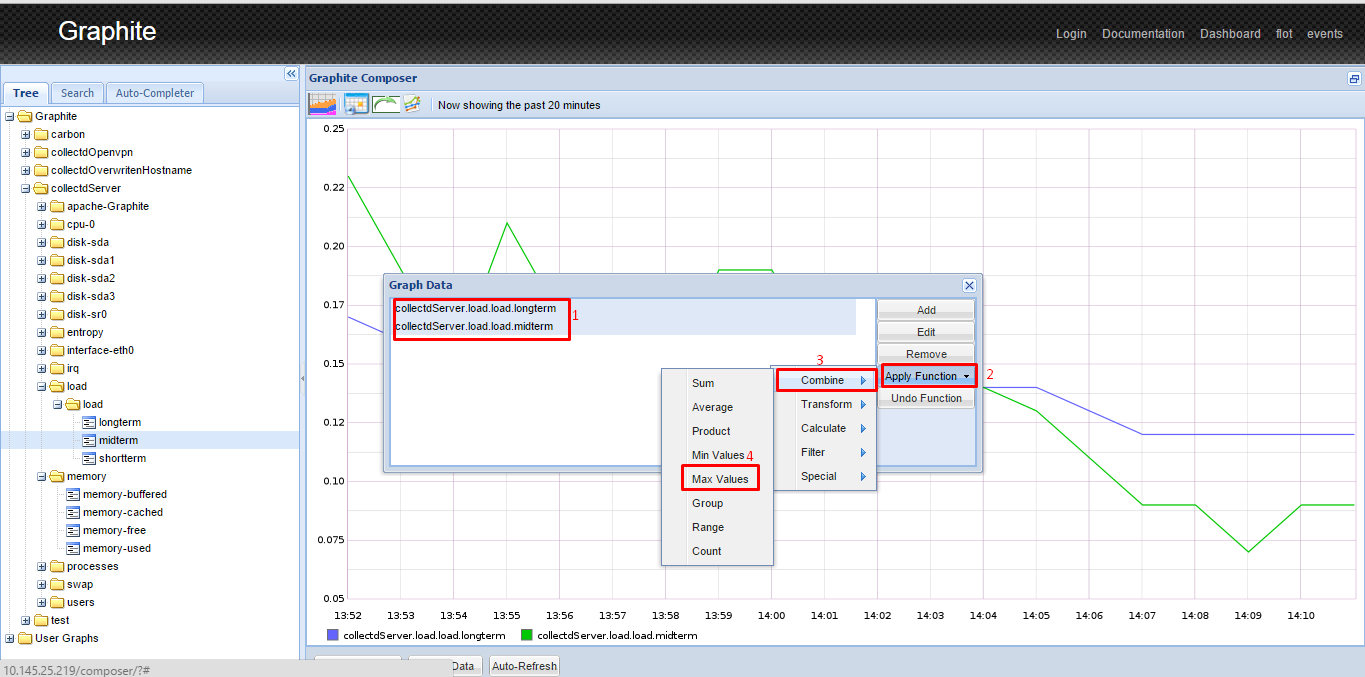
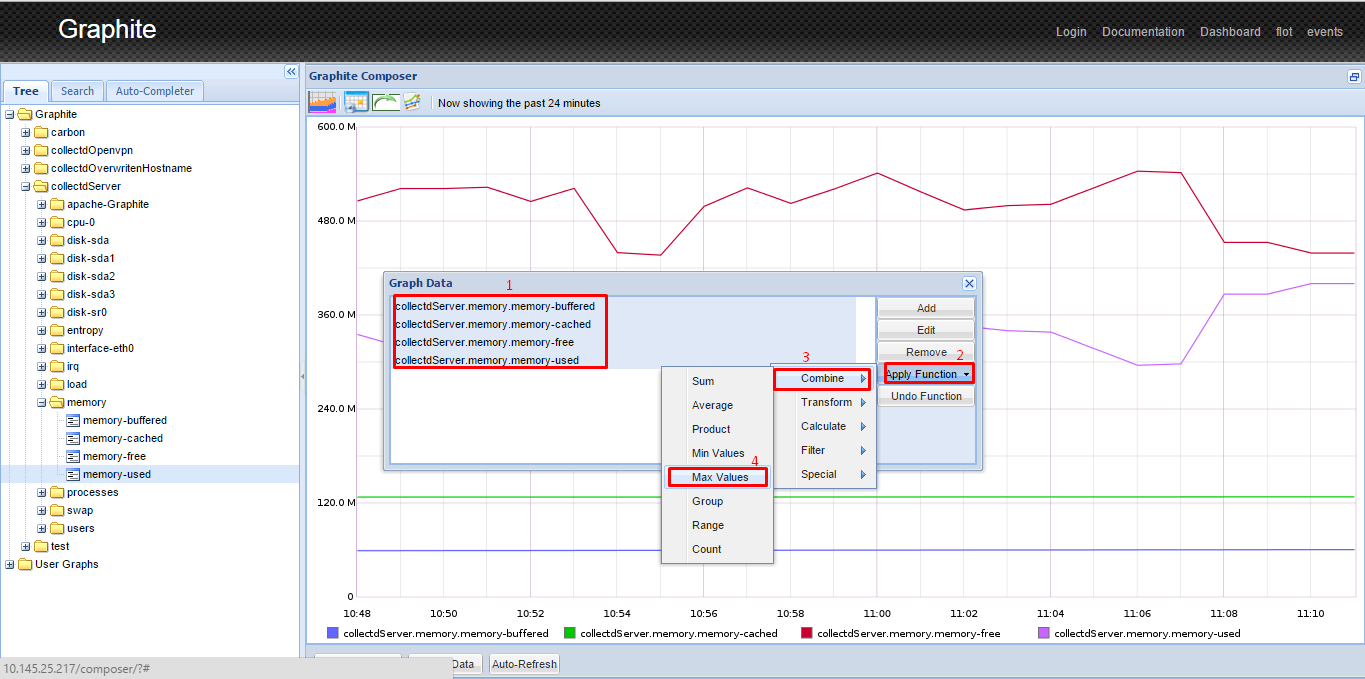
change something in functions

diff --git a/function.md b/function.md
@@ -80,7 +80,7 @@ Chú ý: Trong đó sumSeries(collectdServer.memory.memory-buffered,collectdServ
 <a name="minhhoaaverage"></a>
 #####2.2 Minh họa.
 
-- Người dùng chọn các thông số muốn tính trung bình. Ở đây tôi chọn load.shortterm longterm và midterm. Sau đó chọn Apply Fuction-> Combine-> Average.
+- Người dùng chọn các thông số muốn tính trung bình. Ở đây tôi chọn packet nhận và chuyển đi trên card eth0. Sau đó chọn Apply Fuction-> Combine-> Average.
 
 Hình 3
 ![average](/images/functionAverage1.png)
@@ -88,7 +88,7 @@ Hình 3
 Hình 4
 ![average](/images/functionAverage2.png)
 
-Chú ý: Trong đó averageSeries(collectdServer.load.load.longterm,collectdServer.load.load.midterm,collectdServer.load.load.shortterm)=(0.00 + 0.01 + 0.05)/3 = 0.02
+Chú ý: Trong đó averageSeries(collectdServer.interface-eth0.if_packets.tx,collectdServer.interface-eth0.if_packets.rx)=(số packet nhận + số packet truyền ra ngoài)/2
 
 <a name="product"></a>
 ####3. Product function.
@@ -121,13 +121,15 @@ Chú ý: Trong đó multiplySeries(collectdServer.load.load.shortterm,collectdSe
 <a name="minhhoaminvalue"></a>
 #####4.2 Minh họa
 
-- Chọn các thông số người dùng muốn so sánh. Ở đây tôi chọn load.shortterm và load.midterm. Sau đó chọn Apply Fuction-> Combine-> Min value.
+- Chọn các thông số người dùng muốn so sánh. Ở đây tôi chọn memory: free, used, cached và buffered. Sau đó chọn Apply Fuction-> Combine-> Min value.
 
 Hình 7
 ![minvalue](/images/functionMinvalue1.png)
 
 Hình 8
-![minvalue](/images/functionMinvalue.png)
+![minvalue](/images/functionMinvalue2.png)
+
+Trong trường họp này Min value là buffered memory.
 
 <a name="maxvalue"></a>
 ####5. Max value function.
@@ -140,7 +142,7 @@ Hình 8
 <a name="minhhoamaxvalue"></a>
 #####5.2 Minh họa
 
-- Chọn các thông số người dùng muốn so sánh. Ở đây tôi chọn load.shortterm và load.midterm. Sau đó chọn Apply Fuction-> Combine-> Max value.
+- Chọn các thông số người dùng muốn so sánh. Ở đây tôi chọn memory: free, used, cached và buffered. Sau đó chọn Apply Fuction-> Combine-> Max value.
 
 Hình 9
 ![maxvalue](/images/functionMaxvalue1.png)
@@ -148,6 +150,7 @@ Hình 9
 Hình 10
 ![maxvalue](/images/functionMaxvalue2.png)
 
+Ở đây Max value là free memory.
 
 <a name="difference"></a>
 ####6. Difference function.
